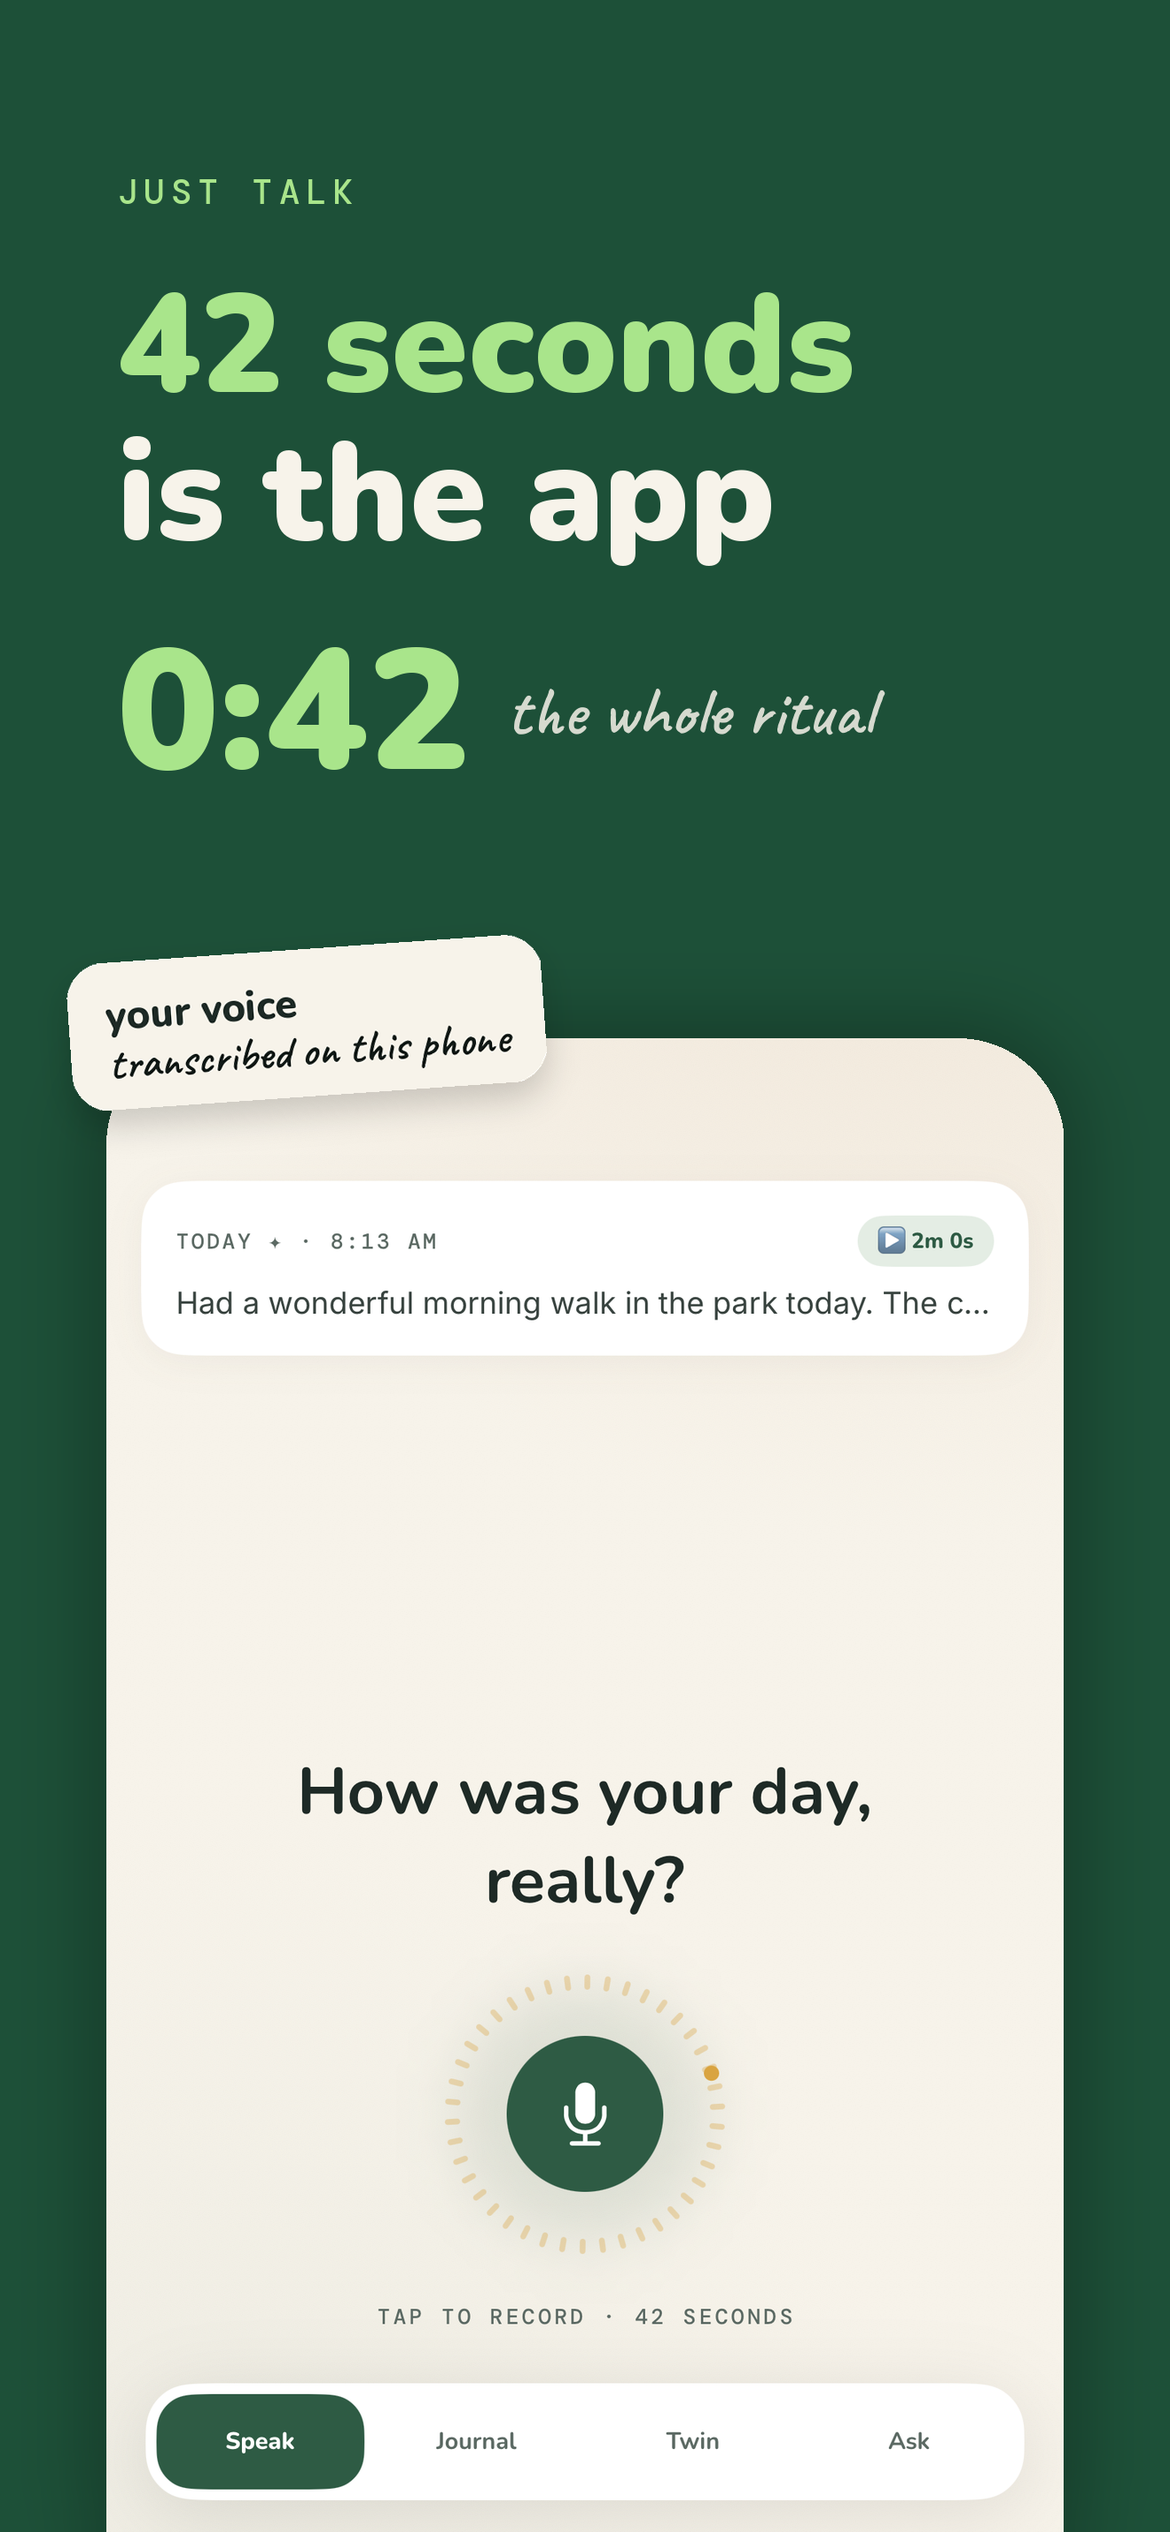
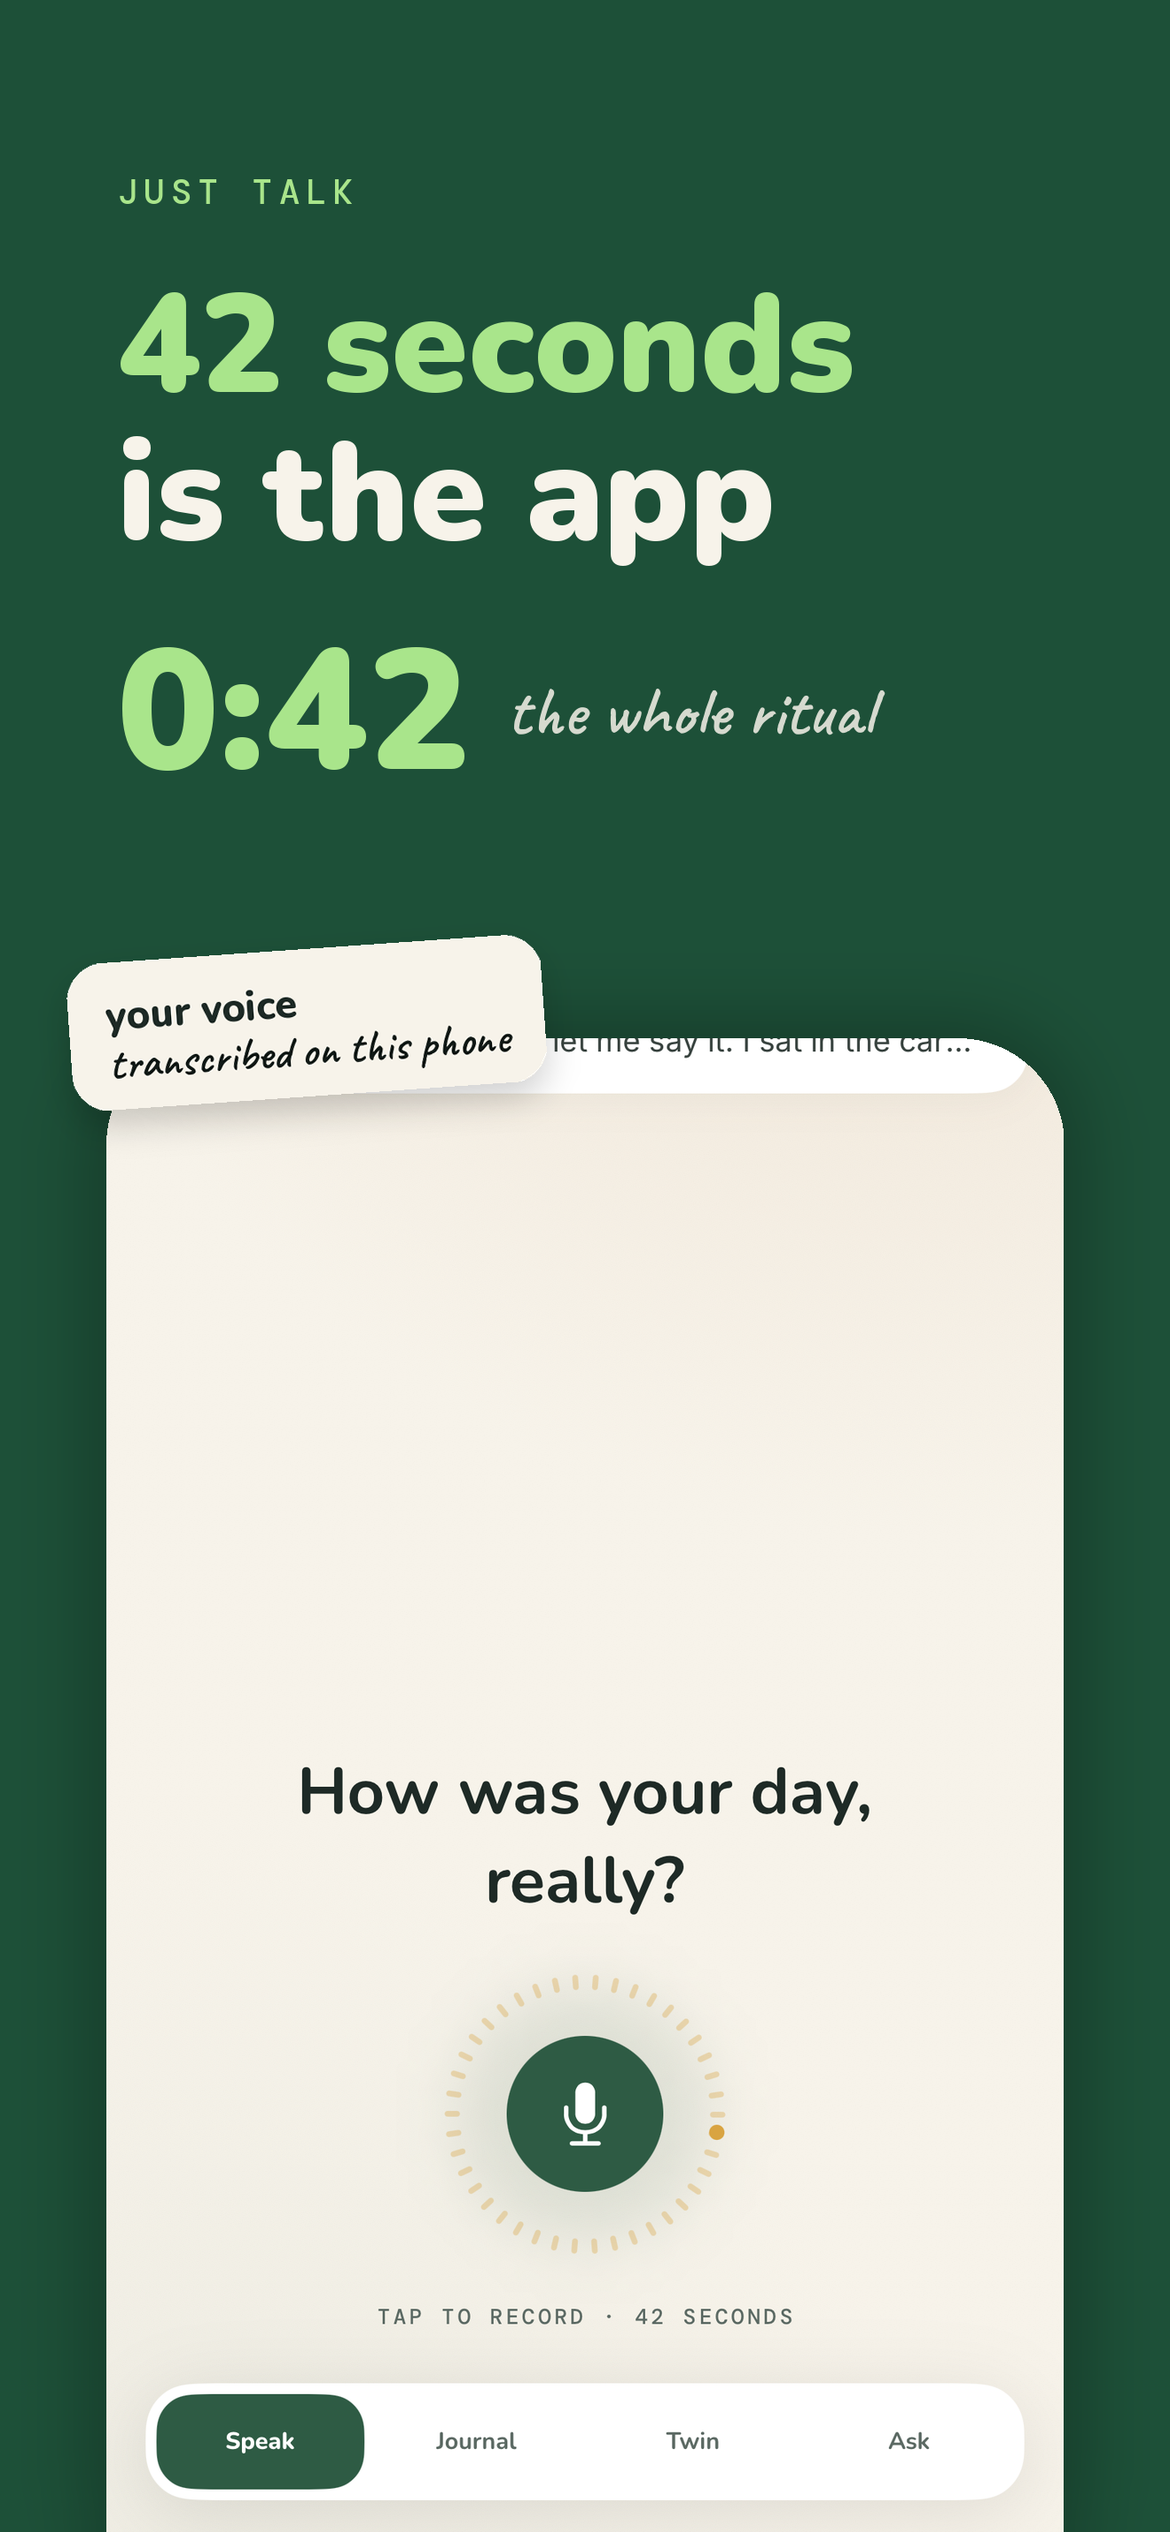
fix(ios): today's card sits under the header, and says something worth reading
Three things Karthik caught in the hero screenshot.

THE GAP ABOVE TODAY'S CARD

I had centred the card in the scroll band to kill a dead void, and that
opened a gap above it that exists nowhere in the running app — the first
thing you wrote today looked like it was floating. Top-aligning it was not
enough on its own: a Spacer EXPANDS, so a leading Spacer(minLength: 16) and a
trailing Spacer(minLength: 0) split the slack evenly and re-centred the card
regardless of the frame alignment. The leading Spacer is gone. The card now
starts at y=366 rather than y=819, directly under the greeting, and the slack
falls below it — between what you have said and the button for saying more,
which is where it belongs.

FOUR LINES, NOT ONE

The card showed a single truncated line, which is a receipt for something you
already know you did. Four lines is enough to re-read the thought and decide
whether to open it.

CONTENT THAT TEACHES THE PRODUCT

The seeded entries were lifestyle filler — "wonderful morning walk", "big
presentation went well" — and they are what a visitor learns the product from,
in the App Store frames and in the website hero. They teach nothing about what
a 42-second spoken entry is FOR. Rewritten so they read like someone actually
talking, name people so the Twin's entity work is visible, and each carries a
turn of thought rather than a status update. The one on the Speak tab is now
about saying a hard thing out loud and hearing yourself say it, which is the
[…]

diff --git a/ios/solyn/TodayView.swift b/ios/solyn/TodayView.swift
@@ -431,15 +431,19 @@ struct TodayView: View {
                 .padding(.horizontal)
                 .padding(.top)
 
-            // GeometryReader + minHeight is what makes the Spacers inside a
-            // ScrollView actually push. Without it the content keeps its
-            // intrinsic height, sits at the top, and leaves a third of the
-            // screen as dead cream between today's card and the question.
+            // Today's card sits directly under the header, where a device
+            // actually puts it. Centring it in the band — which is what this
+            // did — opened a gap ABOVE the card that exists nowhere in the
+            // running app, and made the first thing you wrote today look like
+            // it was floating. The slack belongs below it, between what you
+            // have said and the button for saying more.
             GeometryReader { proxy in
                 ScrollView {
                     VStack(spacing: 0) {
-                        Spacer(minLength: 24)
-
+                        // NO leading Spacer. A Spacer expands, so a pair of them
+                        // — even with minLength 16 and 0 — splits the slack
+                        // evenly and re-centres the card, which is the gap this
+                        // was meant to remove. Only the trailing one remains.
                         if recordingState == .idle {
                         // Today's star, once it exists. The canvas surfaces it
                         // here rather than making you open the Journal for it.
@@ -453,12 +457,12 @@ struct TodayView: View {
                             entryCardSection
                         }
 
-                        Spacer(minLength: 24)
+                        Spacer(minLength: 0)
                     }
                     .padding(.horizontal)
                     .frame(maxWidth: isIPad ? 700 : .infinity)
                     .frame(maxWidth: .infinity)
-                    .frame(minHeight: proxy.size.height)
+                    .frame(minHeight: proxy.size.height, alignment: .top)
                 }
             }
 
@@ -694,12 +698,16 @@ struct TodayView: View {
                                 }
                             }
 
+                            // Four lines. One truncated line was a receipt for
+                            // something you already knew you'd done; four is
+                            // enough to re-read the thought and decide whether
+                            // to open it.
                             Text(text)
                                 .font(.dv(size: 13.5))
                                 .lineSpacing(3)
                                 .foregroundColor(theme.textColor.opacity(0.88))
                                 .multilineTextAlignment(.leading)
-                                .lineLimit(1)
+                                .lineLimit(4)
                         } else {
                             // Entry exists but no text yet
                             VStack(alignment: .leading, spacing: 8) {

diff --git a/ios/solyn/ScreenshotDataSeeder.swift b/ios/solyn/ScreenshotDataSeeder.swift
@@ -53,16 +53,16 @@ struct ScreenshotDataSeeder {
         let entries: [(text: String, mood: String, daysAgo: Int, starred: Bool, duration: Double)] = [
             // Recent streak (last 7 days)
             (
-                "Had a wonderful morning walk in the park today. The cherry blossoms are starting to bloom and there's something magical about seeing the first signs of spring. Stopped at my favorite coffee shop on the way back and just sat there for a while, watching people go by. These small moments of peace are what I treasure most.",
-                "happy", 0, true, 120
+                "Sarah called on the drive home and I ended up saying the thing I've been avoiding out loud for about three weeks — that I'm not actually fine about the move. She didn't try to fix it. She just let me say it. I sat in the car park for ten minutes afterwards feeling lighter than I have in a while. I think I needed to hear myself say it more than I needed her to answer.",
+                "calm", 0, true, 96
             ),
             (
-                "Big presentation at work went really well today. Sarah and Mike gave great feedback on the quarterly report. I've been working on this for weeks and it feels incredible to see it come together. The team seemed genuinely excited about our new direction. Celebrated with the team over lunch.",
-                "excited", 1, true, 90
+                "The presentation landed. Mike asked the one question I'd been dreading and I actually had an answer, which surprised me more than it surprised him. Weeks of work and the whole thing was over in eleven minutes. I notice I keep bracing for these and then they're fine — that's worth remembering next time I can't sleep the night before.",
+                "excited", 1, true, 84
             ),
             (
-                "Spent the evening reading and journaling. There's a quiet comfort in having a routine that grounds me. Made some chamomile tea, put on soft music, and just let my thoughts flow. I've been thinking a lot about what matters most to me and how I want to spend my time.",
-                "calm", 2, false, 60
+                "Didn't want to record tonight. Nothing happened, and I nearly skipped it. But I said that out loud and then kept going for another minute about why nothing-days bother me so much, and that turned out to be the actual entry. Note to self: the days I don't want to speak are usually the ones with something underneath.",
+                "calm", 2, false, 62
             ),
             (
                 "Grateful for my family today. Mom called and we talked for over an hour about everything and nothing. She told me stories about when I was little that I'd never heard before. Dad chimed in from the background with his usual jokes. I need to visit them more often.",

diff --git a/website/public/index.html b/website/public/index.html
@@ -42,7 +42,7 @@
   <link rel="manifest" href="/manifest.json">
   <link rel="alternate" type="application/rss+xml" title="DailyVox Blog" href="/blog/feed.xml">
 
-  <link rel="preload" as="image" href="/app/app-record.webp?v=1110" fetchpriority="high">
+  <link rel="preload" as="image" href="/app/app-record.webp?v=1111" fetchpriority="high">
   <link rel="preconnect" href="https://fonts.googleapis.com">
   <link rel="preconnect" href="https://fonts.gstatic.com" crossorigin>
   <link href="https://fonts.googleapis.com/css2?family=Nunito:wght@400;500;600;700;800&family=Inter:wght@400;500;600;700;800;900&family=DM+Mono:wght@400;500&display=swap" rel="stylesheet">
@@ -934,19 +934,19 @@ section.band.g-paper2{background:var(--band)!important}
         <div class="device pin-phone">
           <div class="screens">
             <figure class="scr on" data-i="0">
-              <img src="/app/app-record.webp?v=1110" width="900" height="1955" fetchpriority="high"
+              <img src="/app/app-record.webp?v=1111" width="900" height="1955" fetchpriority="high"
                    alt="The DailyVox home screen: a journal entry transcribed from speech about a morning walk, a 32-day streak, and a microphone button labelled “your voice stays on this device”.">
             </figure>
             <figure class="scr" data-i="1">
-              <img src="/app/app-live.webp?v=1110" width="900" height="1955" loading="lazy"
+              <img src="/app/app-live.webp?v=1111" width="900" height="1955" loading="lazy"
                    alt="Recording in progress: a 42-second dial at 28 seconds, a live waveform, and the words being transcribed on the phone as they are spoken.">
             </figure>
             <figure class="scr" data-i="2">
-              <img src="/app/app-entry.webp?v=1110" width="900" height="1955" loading="lazy"
+              <img src="/app/app-entry.webp?v=1111" width="900" height="1955" loading="lazy"
                    alt="An entry with the names Sarah, James and Emma underlined in gold, and a ledger below it reading MOOD grateful, MENTIONED Sarah, James, Emma, Lisa.">
             </figure>
             <figure class="scr" data-i="3">
-              <img src="/app/app-twin.webp?v=1110" width="900" height="1955" loading="lazy"
+              <img src="/app/app-twin.webp?v=1111" width="900" height="1955" loading="lazy"
                    alt="The Digital Twin sky: a constellation of 35 entries with Sarah, Mike, Emma and James named among them, and a summary reading warm, steady, expansive.">
             </figure>
           </div>

diff --git a/ios/solyn/TwinChatView.swift b/ios/solyn/TwinChatView.swift
@@ -511,7 +511,11 @@ struct TwinChatView: View {
         // answer with its citation chips, which is the whole claim this screen
         // makes — an empty invitation demonstrates nothing.
         if ScreenshotScene.current == .ask, messages.isEmpty {
-            send(text: "What do I say about my mornings?")
+            // A question worth photographing: it has to be one the Twin can
+            // only answer from THIS journal, so the reply demonstrates the
+            // claim ("answers with receipts") instead of sounding like any
+            // chatbot. "My mornings" produced a shrug; this produces citations.
+            send(text: "What do I keep avoiding saying out loud?")
             return
         }
         guard let seedQuestion, messages.isEmpty else { return }
